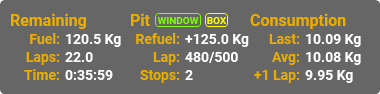
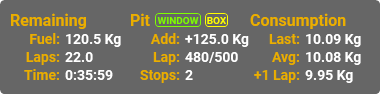
Added option to automatically set fuel to add when entering pit lane. Changed "Refuel" to "Add".

Changed region(s): [[0.3474, 0.3404, 0.4632, 0.4681]]

diff --git a/Plugin/SettingsControl.xaml b/Plugin/SettingsControl.xaml
@@ -605,6 +605,13 @@
 
                 <styles:SHSection Title="FUEL CALCULATOR OVERLAY OPTIONS" ShowSeparator="True">
                     <StackPanel HorizontalAlignment="Left">
+                        <styles:SHToggleCheckbox 
+                            ToolTip="When entering the pit, automatically set the fuel to add to the calculated amount needed." 
+                            HorizontalAlignment="Left" Margin="0,0,4,8"
+                            IsChecked="{Binding Plugin.Modules[FuelCalcModule].Settings.AutoFuelEnabled, Mode=TwoWay, UpdateSourceTrigger=PropertyChanged}">
+                            Automatically set fuel to add on pit entry
+                        </styles:SHToggleCheckbox>
+                        
                         <Label Content="Fuel Reserve (liters)"/>
 
                         <TextBox Text="{Binding Plugin.Modules[FuelCalcModule].Settings.FuelReserveLiters.ValueString, Mode=TwoWay, UpdateSourceTrigger=PropertyChanged}" Width="113" HorizontalAlignment="Left"

diff --git a/Plugin/Modules/FuelCalc.cs b/Plugin/Modules/FuelCalc.cs
@@ -25,6 +25,7 @@ using System.Diagnostics;
 using System.Globalization;
 using System.Linq;
 using System.Runtime;
+using static benofficial2.Plugin.BroadcastMessage;
 
 namespace benofficial2.Plugin
 {
@@ -40,6 +41,7 @@ namespace benofficial2.Plugin
         public bool ConsumptionInfoVisible { get; set; } = true;
         public bool EnablePreRaceWarning { get; set; } = true;
         public bool EvenFuelStints { get; set; } = false;
+        public bool AutoFuelEnabled { get; set; } = false;
 
         // Legacy properties for backwards compatibility (saved pre 3.0)
         public string FuelReserveString { get => FuelReserveLiters.ValueString; set => FuelReserveLiters.ValueString = value; }
@@ -70,6 +72,7 @@ namespace benofficial2.Plugin
         private TimeSpan _updateInterval = TimeSpan.FromMilliseconds(1000);
 
         private string _lastCarTrackCombo = string.Empty;
+        private bool _lastIsInPitLane = false;
 
         // Maximum amount of time remaining (in percentage of best lap) for the white flag to be shown.
         // It is unknown what is the exact rule used by iRacing. Could be 60% of avg from last 3 race laps.
@@ -129,6 +132,7 @@ namespace benofficial2.Plugin
             plugin.AttachDelegate(name: "FuelCalc.ConsumptionInfoVisible", valueProvider: () => Settings.ConsumptionInfoVisible);
             plugin.AttachDelegate(name: "FuelCalc.EnablePreRaceWarning", valueProvider: () => Settings.EnablePreRaceWarning);
             plugin.AttachDelegate(name: "FuelCalc.EvenFuelStints", valueProvider: () => Settings.EvenFuelStints);
+            plugin.AttachDelegate(name: "FuelCalc.AutoFuelEnabled", valueProvider: () => Settings.AutoFuelEnabled);
             plugin.AttachDelegate(name: "FuelCalc.Visible", valueProvider: () => StartFuelCalculatorVisible);
             plugin.AttachDelegate(name: "FuelCalc.BestLapTime", valueProvider: () => BestLapTime);
             plugin.AttachDelegate(name: "FuelCalc.SetupFuelLevel", valueProvider: () => SetupFuelLevel);
@@ -204,6 +208,7 @@ namespace benofficial2.Plugin
             }
 
             UpdateFuelCalculations(ref data);
+            UpdateAutoFuel(ref data);
         }
 
         public override void End(PluginManager pluginManager, benofficial2 plugin)
@@ -686,6 +691,33 @@ namespace benofficial2.Plugin
             }
 
             WarningVisible = true;
+        }
+
+        private void UpdateAutoFuel(ref GameData data)
+        {
+            if (!Settings.AutoFuelEnabled)
+                return;
+
+            // Set the fuel to add when entering the pit lane.
+            if (data.NewData.IsInPitLane > 0 && !_lastIsInPitLane)
+            {
+                int amountLiters = (int)Math.Ceiling(RefuelNeeded / ConvertFromLiters);
+
+                // TODO: Is there a way to clear the fuel to add in iRacing?
+                // Sending 0 doesn't set the fuel to add to 0, it just sends "#fuel" which checks the Begin Fueling box.
+                // The workaround is to leave Auto Fuel on in iRacing (which is the default).
+                if (amountLiters > 0)
+                {
+                    SendAddFuel(amountLiters);
+                }
+            }
+
+            _lastIsInPitLane = data.NewData.IsInPitLane > 0;
+        }
+
+        public void SendAddFuel(int amountLiters)
+        {
+            BroadcastMessage.Broadcast(BroadcastMessageTypes.PitCommand, (int)PitCommandModeTypes.Fuel, amountLiters, 0);
         }
     }
 }

diff --git a/Plugin/BroadcastMessage.cs b/Plugin/BroadcastMessage.cs
@@ -1,0 +1,83 @@
+/*
+    benofficial2's Official Overlays
+    Copyright (C) 2025 benofficial2
+
+    This program is free software: you can redistribute it and/or modify
+    it under the terms of the GNU General Public License as published by
+    the Free Software Foundation, either version 3 of the License, or
+    (at your option) any later version.
+
+    This program is distributed in the hope that it will be useful,
+    but WITHOUT ANY WARRANTY; without even the implied warranty of
+    MERCHANTABILITY or FITNESS FOR A PARTICULAR PURPOSE.  See the
+    GNU General Public License for more details.
+
+    You should have received a copy of the GNU General Public License
+    along with this program.  If not, see <https://www.gnu.org/licenses/>.
+*/
+
+using System;
+using System.Collections.Generic;
+using System.Linq;
+using System.Runtime.InteropServices;
+using System.Text;
+using System.Threading.Tasks;
+
+namespace benofficial2.Plugin
+{
+    internal class BroadcastMessage
+    {
+        public enum BroadcastMessageTypes { CamSwitchPos = 0, CamSwitchNum, CamSetState, ReplaySetPlaySpeed, ReplaySetPlayPosition, ReplaySearch, ReplaySetState, ReloadTextures, ChatCommand, PitCommand, TelemCommand };
+
+        public enum PitCommandModeTypes
+        {
+            Clear = 0,
+            WS = 1,
+            Fuel = 2,
+            LF = 3,
+            RF = 4,
+            LR = 5,
+            RR = 6,
+            ClearTires = 7,
+            FastRepair = 8
+        };
+
+        public class Defines
+        {
+            public const string BroadcastMessageName = "IRSDK_BROADCASTMSG";
+        }
+
+        static IntPtr GetBroadcastMessageID()
+        {
+            return RegisterWindowMessage(Defines.BroadcastMessageName);
+        }
+
+        public static int Broadcast(BroadcastMessageTypes msg, int var1, int var2, int var3)
+        {
+            return Broadcast(msg, var1, MakeLong((short)var2, (short)var3));
+        }
+
+        public static int Broadcast(BroadcastMessageTypes msg, int var1, int var2)
+        {
+            IntPtr msgId = GetBroadcastMessageID();
+            IntPtr hwndBroadcast = IntPtr.Add(IntPtr.Zero, 0xffff);
+            IntPtr result = IntPtr.Zero;
+            if (msgId != IntPtr.Zero)
+            {
+                result = PostMessage(hwndBroadcast, msgId.ToInt32(), MakeLong((short)msg, (short)var1), var2);
+            }
+            return result.ToInt32();
+        }
+
+        [DllImport("user32.dll")]
+        private static extern IntPtr RegisterWindowMessage(string lpProcName);
+
+        [DllImport("user32.dll")]
+        private static extern IntPtr PostMessage(IntPtr hWnd, int Msg, int wParam, int lParam);
+
+        public static int MakeLong(short lowPart, short highPart)
+        {
+            return (int)(((ushort)lowPart) | (uint)(highPart << 16));
+        }
+    }
+}
